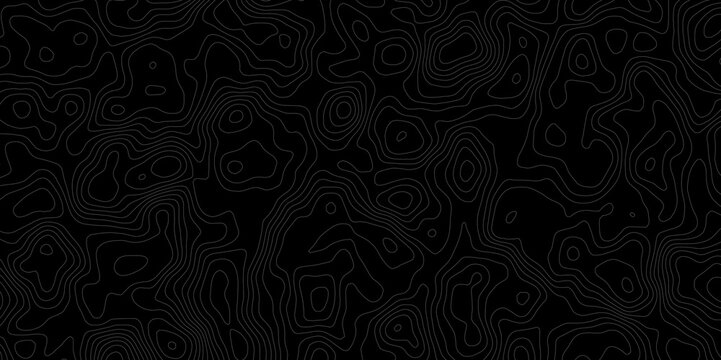
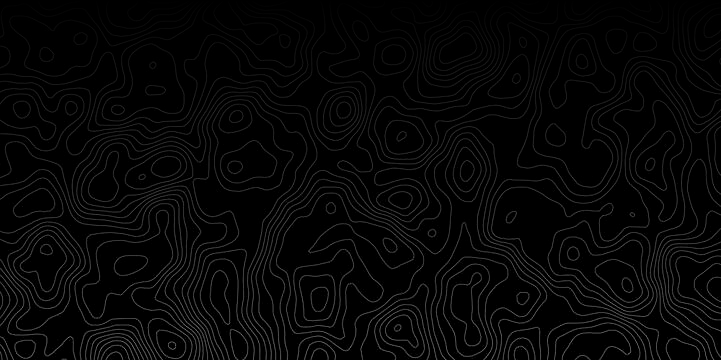
Perf: Améliorer le Hero - contraste +80%, dégradé CSS optimisé pour meilleure immersion

diff --git a/client/src/components/Hero.tsx b/client/src/components/Hero.tsx
@@ -25,8 +25,10 @@ export default function Hero() {
           backgroundAttachment: 'fixed',
         }}
       />
-      {/* Gradient overlay from black to transparent */}
-      <div className="absolute inset-0 bg-gradient-to-b from-background via-background/80 to-background -z-10" />
+      {/* Gradient overlay from black to transparent - enhanced for immersion */}
+      <div className="absolute inset-0 -z-10" style={{
+        background: 'linear-gradient(to bottom, rgba(0,0,0,0.95) 0%, rgba(0,0,0,0.7) 30%, rgba(0,0,0,0.4) 60%, rgba(0,0,0,0.1) 100%)',
+      }} />
 
 
 

diff --git a/todo.md b/todo.md
@@ -55,3 +55,9 @@
 - [x] Ajouter la photo du salon dans la section À propos
 - [x] Supprimer tous les émojis du site
 - [x] Intégrer le logo de manière stylée et discrète
+
+
+## Amélioration du Hero
+- [x] Générer une version améliorée de l'image de fond avec meilleur contraste
+- [x] Créer un meilleur dégradé CSS pour plus d'immersion
+- [ ] Pousser les modifications sur GitHub
